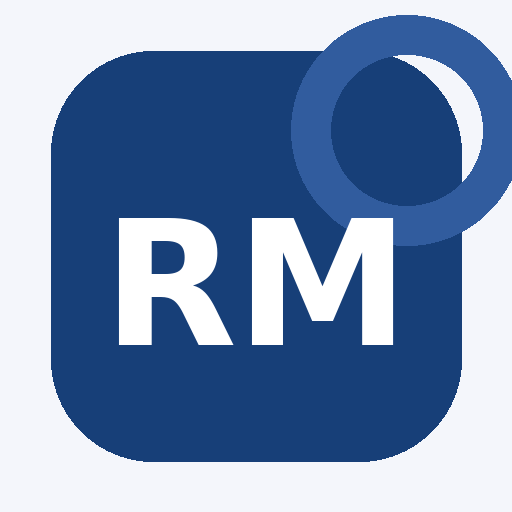
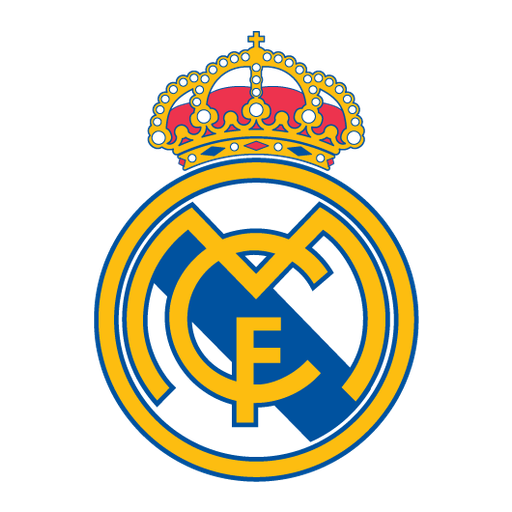
Muestra versión 3.22.0 y escudo; deja vacíos equipos sin goles

diff --git a/index.html b/index.html
@@ -4,18 +4,19 @@
 <meta charset="utf-8">
 <meta name="viewport" content="width=device-width,initial-scale=1,viewport-fit=cover">
 <meta name="theme-color" content="#0b1f3a">
-<link rel="manifest" href="manifest.webmanifest">
-<link rel="apple-touch-icon" href="icon-192.png">
+<link rel="manifest" href="manifest.webmanifest?v=3.22.0">
+<link rel="apple-touch-icon" href="icon-192.png?v=3.22.0">
 <meta name="mobile-web-app-capable" content="yes">
 <meta name="apple-mobile-web-app-capable" content="yes">
 <meta name="apple-mobile-web-app-status-bar-style" content="default">
+<link rel="icon" type="image/png" href="icon-192.png?v=3.22.0">
 <title>Madridista</title>
-<meta name="madridista-version" content="resultados-v3-19-historial-goleadores">
+<meta name="madridista-version" content="3.22.0">
 <style>
 :root{--bg:#f4f6fb;--card:#fff;--navy:#0b1f3a;--blue:#244f94;--gold:#d7b34c;--text:#1d2530;--muted:#6d7787;--line:#e3e8f0;--champ:#eef3ff;--done:#f7f8fa;--danger:#fff0f0;--green:#eaf7ef}
 *{box-sizing:border-box} html{background:var(--bg)} body{margin:0;font-family:Arial,Helvetica,sans-serif;background:radial-gradient(circle at 90% -10%,rgba(36,79,148,.16),transparent 25%),var(--bg);color:var(--text)} button{font:inherit}
 .app{max-width:1040px;margin:auto;min-height:100vh;padding-bottom:90px}.topbar{position:sticky;top:0;z-index:20;background:rgba(244,246,251,.92);backdrop-filter:blur(14px);display:flex;align-items:center;justify-content:space-between;padding:14px 18px;border-bottom:1px solid rgba(227,232,240,.85)}
-.brand{display:flex;align-items:center;gap:11px;font-weight:900;color:var(--navy);font-size:20px}.logo{width:43px;height:43px;border-radius:13px;background:linear-gradient(135deg,var(--navy),var(--blue));color:white;display:grid;place-items:center;font-weight:900;box-shadow:0 8px 18px rgba(11,31,58,.18)}.updated-wrap{display:flex;align-items:center;gap:9px}.updated{font-size:11px;color:var(--muted);text-align:right;line-height:1.25}.refresh-btn{border:1px solid var(--line);background:#fff;color:var(--navy);width:38px;height:38px;border-radius:12px;display:grid;place-items:center;cursor:pointer;font-size:19px;font-weight:900;box-shadow:0 5px 14px rgba(31,41,55,.05);transition:.18s}.refresh-btn:hover{transform:translateY(-1px)}.refresh-btn:active{transform:scale(.96)}.refresh-btn.loading{opacity:.55;pointer-events:none}.refresh-btn.loading span{display:inline-block;animation:spin .8s linear infinite}@keyframes spin{to{transform:rotate(360deg)}}.refresh-msg{position:fixed;top:72px;left:50%;transform:translateX(-50%) translateY(-8px);z-index:60;background:var(--navy);color:#fff;border-radius:999px;padding:9px 13px;font-size:12px;font-weight:800;opacity:0;pointer-events:none;transition:.2s;box-shadow:0 8px 24px rgba(11,31,58,.2)}.refresh-msg.show{opacity:1;transform:translateX(-50%) translateY(0)}.content{padding:18px}
+.brand{display:flex;align-items:center;gap:11px;font-weight:900;color:var(--navy);font-size:20px}.logo{width:43px;height:43px;border-radius:13px;background:linear-gradient(135deg,var(--navy),var(--blue));color:white;display:grid;place-items:center;font-weight:900;box-shadow:0 8px 18px rgba(11,31,58,.18)}.crest{width:48px;height:48px;object-fit:contain;background:#fff;border-radius:12px}.app-version{display:block;margin-top:3px;font-size:11px;line-height:1.3;font-weight:600;color:#536073}.updated-wrap{display:flex;align-items:center;gap:9px}.updated{font-size:11px;color:var(--muted);text-align:right;line-height:1.25}.refresh-btn{border:1px solid var(--line);background:#fff;color:var(--navy);width:38px;height:38px;border-radius:12px;display:grid;place-items:center;cursor:pointer;font-size:19px;font-weight:900;box-shadow:0 5px 14px rgba(31,41,55,.05);transition:.18s}.refresh-btn:hover{transform:translateY(-1px)}.refresh-btn:active{transform:scale(.96)}.refresh-btn.loading{opacity:.55;pointer-events:none}.refresh-btn.loading span{display:inline-block;animation:spin .8s linear infinite}@keyframes spin{to{transform:rotate(360deg)}}.refresh-msg{position:fixed;top:72px;left:50%;transform:translateX(-50%) translateY(-8px);z-index:60;background:var(--navy);color:#fff;border-radius:999px;padding:9px 13px;font-size:12px;font-weight:800;opacity:0;pointer-events:none;transition:.2s;box-shadow:0 8px 24px rgba(11,31,58,.2)}.refresh-msg.show{opacity:1;transform:translateX(-50%) translateY(0)}.content{padding:18px}
 .hero{background:linear-gradient(135deg,var(--navy),var(--blue));color:#fff;border-radius:24px;padding:24px;box-shadow:0 15px 36px rgba(11,31,58,.18);position:relative;overflow:hidden}.hero:after{content:"";position:absolute;width:200px;height:200px;border:25px solid rgba(215,179,76,.15);border-radius:50%;right:-80px;top:-90px}.kicker{font-size:12px;text-transform:uppercase;letter-spacing:.12em;color:#f4da84;font-weight:800}.next-title{font-size:14px;color:#dce6f3;margin-top:8px}.next-match{font-size:28px;font-weight:900;margin:5px 0 10px;line-height:1.15}.meta{display:flex;flex-wrap:wrap;gap:8px}.chip{display:inline-flex;align-items:center;gap:6px;padding:7px 10px;border-radius:999px;background:rgba(255,255,255,.12);font-size:12px;font-weight:800}.hero-tv{margin-top:14px;color:#e7eef8;font-size:13px}
 .stats{display:grid;grid-template-columns:repeat(3,1fr);gap:10px;margin-top:13px}.stat{background:var(--card);border:1px solid var(--line);border-radius:16px;padding:13px;box-shadow:0 8px 22px rgba(31,41,55,.04)}.stat span{display:block;font-size:11px;text-transform:uppercase;color:var(--muted);font-weight:800}.stat b{display:block;margin-top:3px;color:var(--navy);font-size:21px}
 .section-head{display:flex;align-items:end;justify-content:space-between;gap:10px;margin:26px 2px 10px}.section-head h2{margin:0;color:var(--navy);font-size:22px}.section-head small{color:var(--muted)}.filters{display:flex;gap:7px;overflow:auto;padding-bottom:4px}.filter{border:1px solid var(--line);background:#fff;border-radius:999px;padding:8px 13px;font-size:12px;font-weight:800;color:#596473;white-space:nowrap;cursor:pointer}.filter.active{background:var(--navy);color:#fff;border-color:var(--navy)}
@@ -80,7 +81,7 @@
 </head>
 <body>
 <div class="refresh-msg" id="refreshMsg">Datos actualizados</div><div class="app">
-<header class="topbar"><div class="brand"><div class="logo">RM</div><div>Madridista</div></div><div class="updated-wrap"><div class="updated" id="updated">Cargando…</div><button class="refresh-btn" id="refreshBtn" title="Forzar actualización de datos" aria-label="Actualizar datos"><span>↻</span></button></div></header>
+<header class="topbar"><div class="brand"><img class="crest" src="icon-192.png?v=3.22.0" alt="Escudo del Real Madrid" width="48" height="48"><div>Madridista<span class="app-version">Versión 3.22.0</span></div></div><div class="updated-wrap"><div class="updated" id="updated">Cargando…</div><button class="refresh-btn" id="refreshBtn" title="Forzar actualización de datos" aria-label="Actualizar datos"><span>↻</span></button></div></header>
 <main class="content">
 <section id="calendarView" class="view active">
   <div class="hero"><div class="kicker">Temporada <span id="season"></span></div><div class="next-title" id="nextTitle">Próximo partido</div><div class="next-match" id="nextMatch"></div><div class="meta" id="nextMeta"></div><div class="hero-tv" id="nextTv"></div></div>
@@ -299,7 +300,7 @@ function goalSummaryText(goal){
   return `${player}${minute}${goal.penalty?' <span class="goal-label">(p.)</span>':''}${goal.ownGoal?' <span class="goal-label">(p.p.)</span>':''}`;
 }
 function resultGoalColumn(goals,side,label){
-  return `<div class="history-goal-column"><div class="history-goal-team">${escapeResults(label)}</div>${goals.filter(g=>g.side===side).map(g=>`<div class="history-goal-line">${goalSummaryText(g)}</div>`).join('')||'<div class="history-zero">Sin goles</div>'}</div>`;
+  return `<div class="history-goal-column"><div class="history-goal-team">${escapeResults(label)}</div>${goals.filter(g=>g.side===side).map(g=>`<div class="history-goal-line">${goalSummaryText(g)}</div>`).join('')||''}</div>`;
 }
 function scorerOverview(all){
   const map=new Map();
@@ -871,7 +872,7 @@ function startBrowserLive(){
 }
 function activateFilter(container,btn){container.querySelectorAll('.filter').forEach(x=>x.classList.remove('active'));btn.classList.add('active')}
 document.querySelectorAll('[data-filter]').forEach(b=>b.onclick=()=>{activateFilter(document.getElementById('calendarFilters'),b);currentFilter=b.dataset.filter;renderFixtures()});document.querySelectorAll('[data-rfilter]').forEach(b=>b.onclick=()=>{activateFilter(document.getElementById('resultFilters'),b);resultFilter=b.dataset.rfilter;renderResults()});document.querySelectorAll('[data-sfilter]').forEach(b=>b.onclick=()=>{activateFilter(document.getElementById('standingFilters'),b);standingFilter=b.dataset.sfilter;renderStandings()});document.querySelectorAll('[data-jfilter]').forEach(b=>b.onclick=()=>setJornadaCompetition(b.dataset.jfilter));document.getElementById('jornadaPrev')?.addEventListener('click',()=>moveJornada(-1));document.getElementById('jornadaNext')?.addEventListener('click',()=>moveJornada(1));document.getElementById('jornadaSelect')?.addEventListener('change',e=>setJornadaNumber(Number(e.target.value),true));document.querySelectorAll('.navbtn').forEach(b=>b.onclick=()=>{document.querySelectorAll('.navbtn').forEach(x=>x.classList.remove('active'));document.querySelectorAll('.view').forEach(x=>x.classList.remove('active'));b.classList.add('active');document.getElementById(b.dataset.view).classList.add('active');if(b.dataset.view==='jornadaView')refreshJornadaDirect(false,jornadaCompetition,jornadaSelectedNumber(jornadaCompetition||chooseInitialJornadaCompetition()));window.scrollTo({top:0,behavior:'smooth'})});
-if('serviceWorker' in navigator&&location.protocol.startsWith('http'))navigator.serviceWorker.register('sw.js').catch(()=>{});
+if('serviceWorker' in navigator&&location.protocol.startsWith('http'))navigator.serviceWorker.register('sw.js',{updateViaCache:'none'}).catch(()=>{});
 async function manualRefreshAll(){
   const btn=document.getElementById('refreshBtn');if(btn)btn.classList.add('loading');
   try{

diff --git a/sw.js b/sw.js
@@ -1,5 +1,5 @@
-const CACHE='madridista-v3-21-champions-jornadas';
-const STATIC=['./','./index.html','./manifest.webmanifest','./icon-192.png','./icon-512.png','./icon-maskable-512.png'];
+const CACHE='madridista-v3.22.0';
+const STATIC=['./','./index.html','./manifest.webmanifest?v=3.22.0','./icon-192.png?v=3.22.0','./icon-512.png?v=3.22.0','./icon-maskable-512.png?v=3.22.0'];
 
 self.addEventListener('install',e=>{
   e.waitUntil(caches.open(CACHE).then(c=>c.addAll(STATIC)));

diff --git a/README.md b/README.md
@@ -28,3 +28,10 @@ Nota: las plazas europeas de LaLiga pueden desplazarse por Copa del Rey o por cu
 ## Recuperación de resultados pendientes
 
 El actualizador conserva las 38 jornadas completas ya publicadas si la página oficial de LaLiga no responde. Refresca los estados y marcadores pendientes mediante consultas diarias y traslada los finales del catálogo al calendario del Real Madrid, conservando la TV. Los goleadores siguen requiriendo un desglose acreditado que coincida con el marcador.
+
+## Versión 3.22.0 — 11 de octubre de 2026
+
+- Versión visible bajo el nombre Madridista, independiente de la fecha de los datos.
+- Escudo del Real Madrid en cabecera, favicon e iconos instalables de 192 y 512 píxeles. Fondo blanco y margen seguro en el icono maskable. Recurso del equipo servido por ESPN: https://a.espncdn.com/i/teamlogos/soccer/500/86.png.
+- Columnas de goleadores vacías cuando un equipo no marca, sin el texto «Sin goles».
+- Manifest e iconos versionados; caché 3.22.0. Algunos sistemas renuevan el icono instalado con retraso.

diff --git a/docs/ARQUITECTURA.md b/docs/ARQUITECTURA.md
@@ -5,3 +5,7 @@ Madridista es una PWA estática. index.html consume real_madrid.json; update_dat
 LaLiga define la pertenencia a las 38 jornadas de diez partidos. Si su página no responde, se conserva el catálogo completo anterior y se consultan los estados pendientes en los marcadores diarios de ESPN. Los encuentros finalizados del catálogo se trasladan al calendario del Madrid, manteniendo los canales de TV. No se infiere un final solo por el tiempo transcurrido.
 
 Los goles se acreditan por participantes explícitos y se publican únicamente si el desglose coincide con el marcador. Champions utiliza consultas diarias y exige 18 partidos por jornada.
+
+## Identidad visual y versión 3.22.0
+
+HTML declara y muestra 3.22.0; sw.js utiliza la misma versión de caché. Manifest, favicon, cabecera y apple-touch-icon utilizan recursos locales versionados. Los PNG incluyen fondo blanco y margen para conservar el escudo en iconos recortados por el sistema. La fecha del JSON expresa actualización de datos y no la versión de la aplicación.

diff --git a/CHANGELOG.md b/CHANGELOG.md
@@ -6,3 +6,10 @@
 - Traslada encuentros finalizados del catálogo al calendario del Real Madrid para mostrarlos en Resultados y verificar sus goleadores.
 - Conserva la pertenencia a jornadas, información de TV y validación de 38 jornadas de diez partidos.
 - Validación: seis pruebas Python, incluida indisponibilidad de la página oficial y traslado de un final al calendario.
+
+## 3.22.0 — 11 de octubre de 2026
+
+- Versión visible en la cabecera y escudo en cabecera e iconos de instalación.
+- Quitado «Sin goles» en el historial; conserva el nombre del equipo y deja vacío su desglose.
+- URLs de iconos y manifest versionadas, caché renovada y registro del service worker sin caché HTTP del script.
+- Revisada la interfaz en navegador local, incluidos resultados y anchura móvil sin desbordamiento horizontal.
